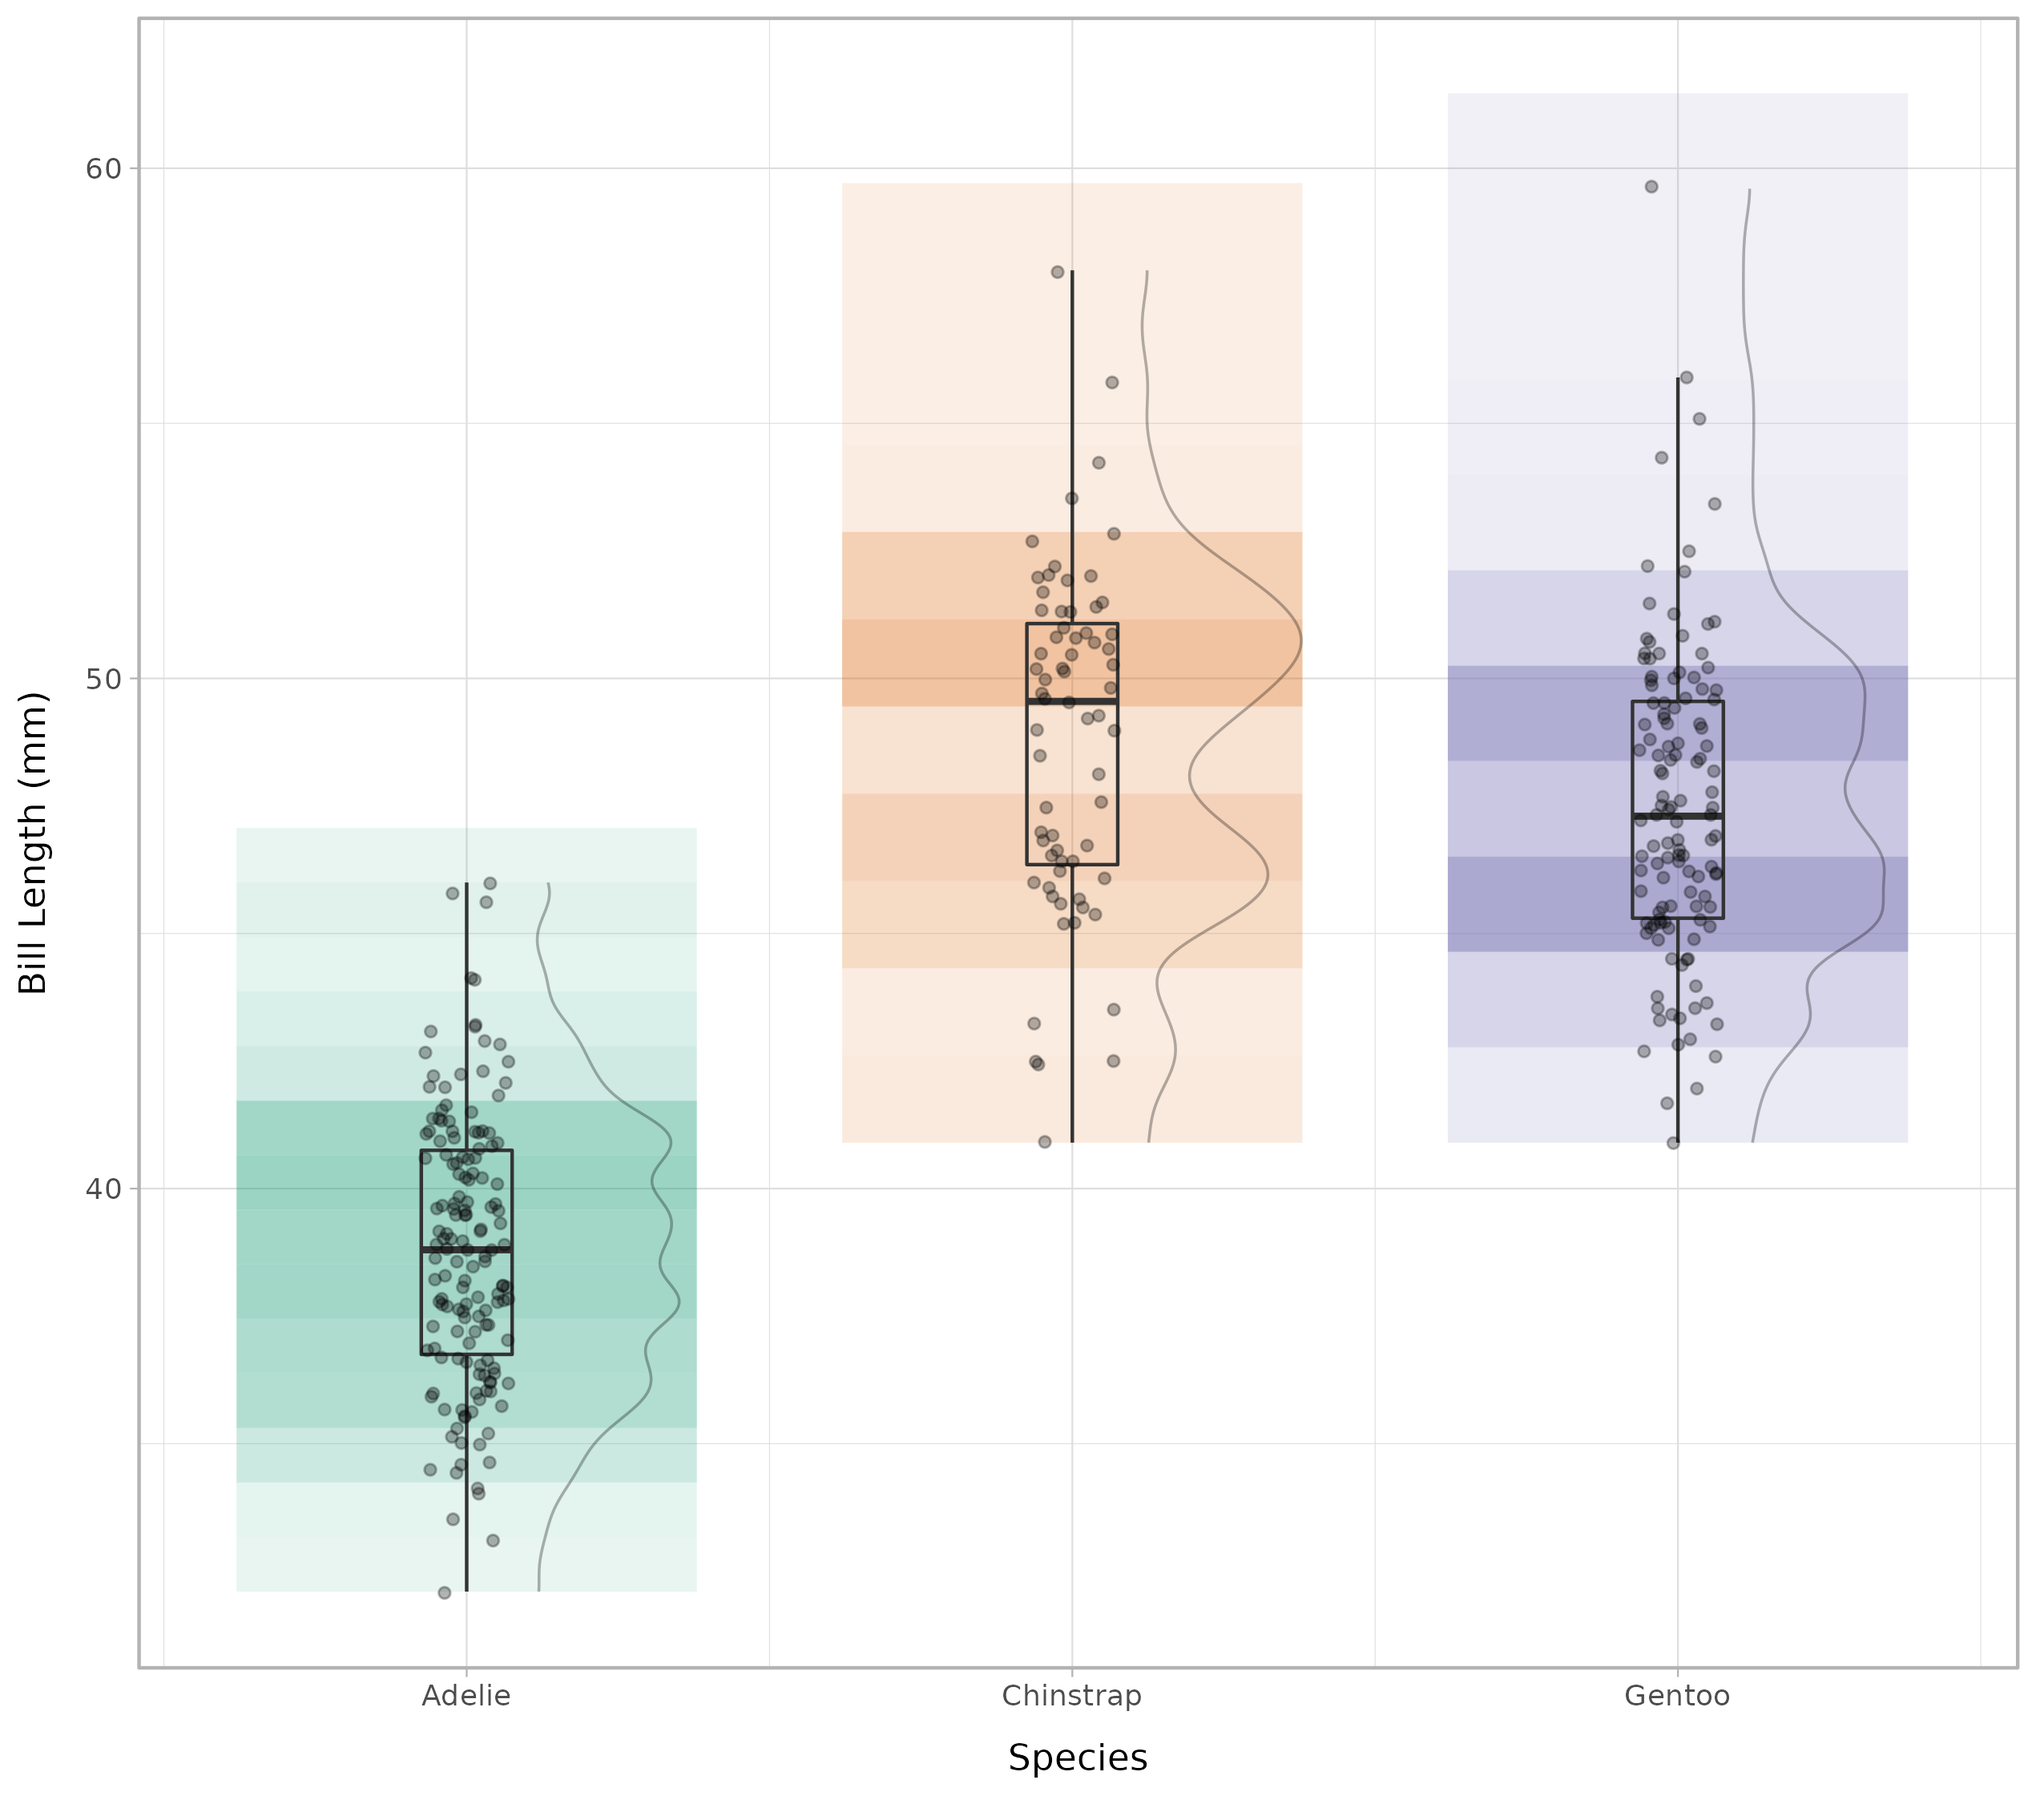
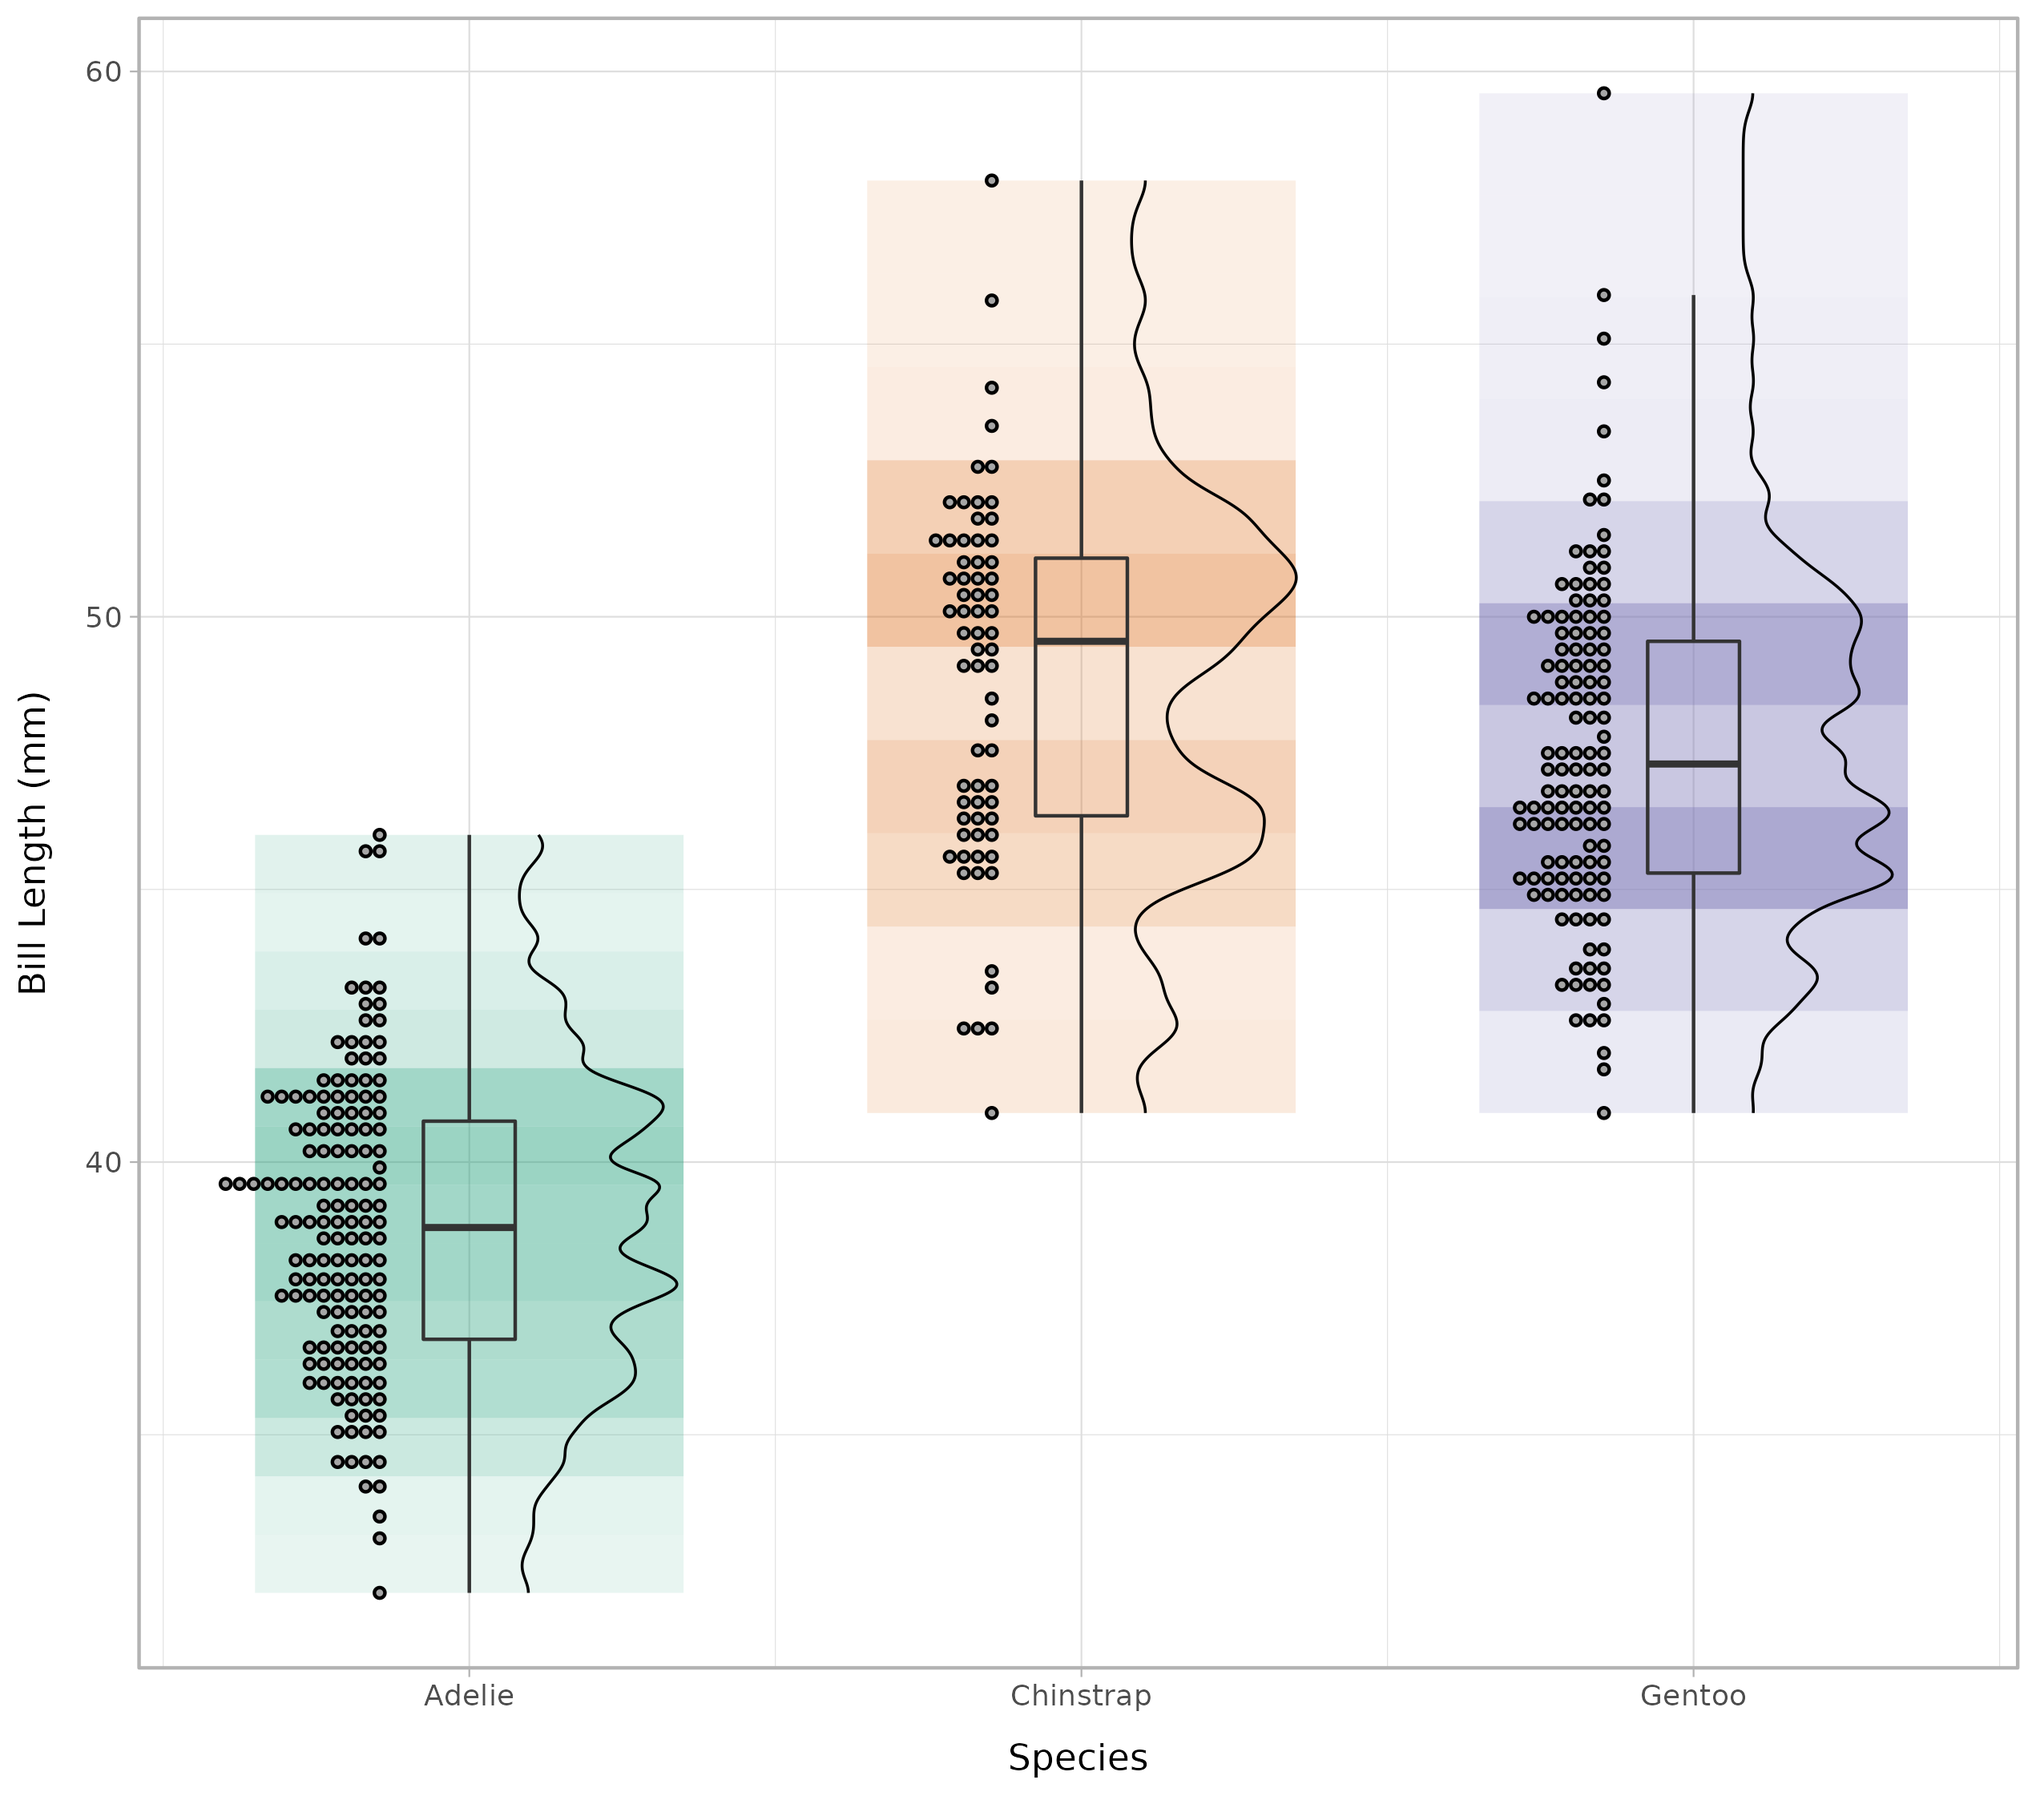
new things

diff --git a/README.md b/README.md
@@ -39,14 +39,44 @@ penguins %>%
 
 ![](man/figures/penguinsCorrect-1.png)<!-- -->
 
-Here’s an example of what it does…
+Another just for fun …
+
+``` r
+penguins %>%
+  ggplot(aes(x = species, y = bill_length_mm, fill = species)) +
+  stat_gradientinterval(aes(fill=stat(pdf)),position = "dodge", colour=NA, 
+                        width=0.8, slab_type='pdf', fill_type = "gradient") +
+  scale_fill_gradientn(colours=viridisLite::mako(255))+
+  theme_light()+
+  labs(x='Species', y='Bill Length (mm)') +
+  guides(fill="none", alpha='none')+
+  theme(axis.title.y = element_text(margin = margin(t = 0, r = 10, b = 0, l = 0)),
+        axis.title.x = element_text(margin = margin(t = 10, r = 0, b = 0, l = 0)))+
+  ggdist::stat_halfeye(adjust = .3, width = .3, .width = 0, justification = -.3,
+                       point_colour = 'NA', slab_fill=NA, slab_colour='black',
+                       slab_size=0.7, fill=NA) +
+  geom_boxplot(width = .15, outlier.shape = NA, fill=NA) +
+  ggdist::stat_dots(
+    side = "left",
+    dotsize = .8,
+    justification = 1.15,
+    binwidth = .3,
+    colour='black',
+    fill=NA) +
+  coord_cartesian(xlim = c(1, NA), clip = "off")
+```
+
+![](man/figures/penguinsCorrect2-1.png)<!-- -->
+
+Here’s my original approach which works okay but don’t bother - just use
+{ggdist}!
 
 ``` r
 #load functions
 source('barcodeBoxPlot.R')
 # make the plot
 barcodeBoxPlot(penguins, species, bill_length_mm,
-                    .gapnudge=.38, .alpharange=c(0.1,.6)) +
+                    .gapnudge=.38, .alpharange=c(0.1,.7)) +
   theme_light()+
   labs(x='Species', y='Bill Length (mm)') +
   guides(fill="none", alpha='none')+
